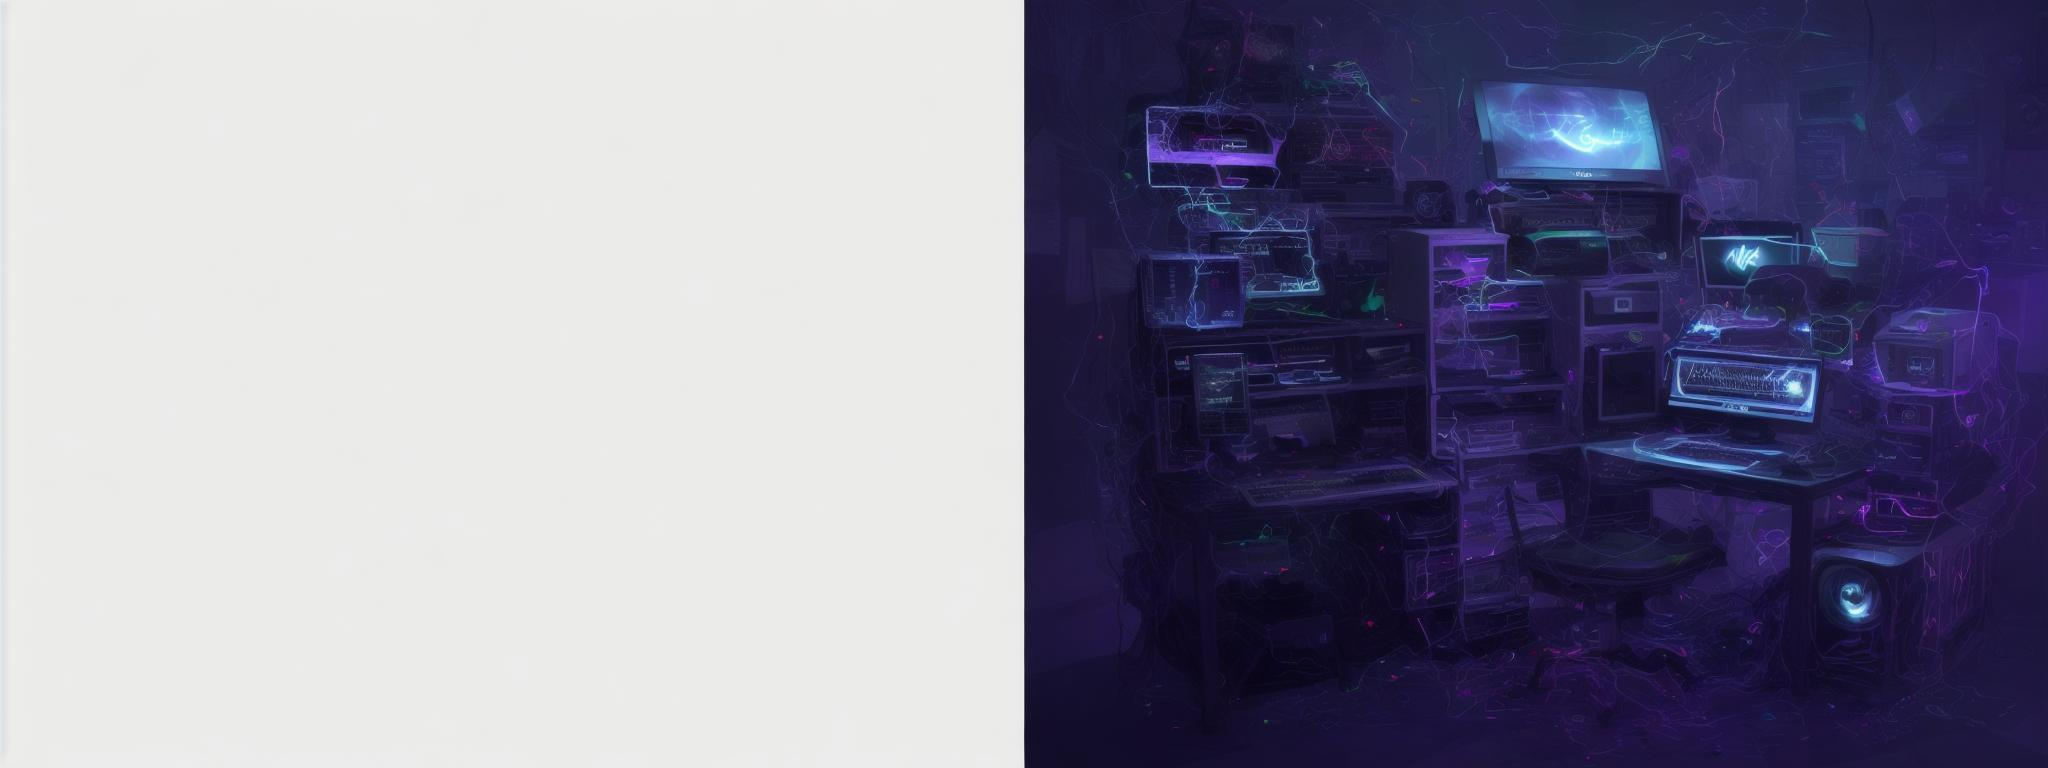
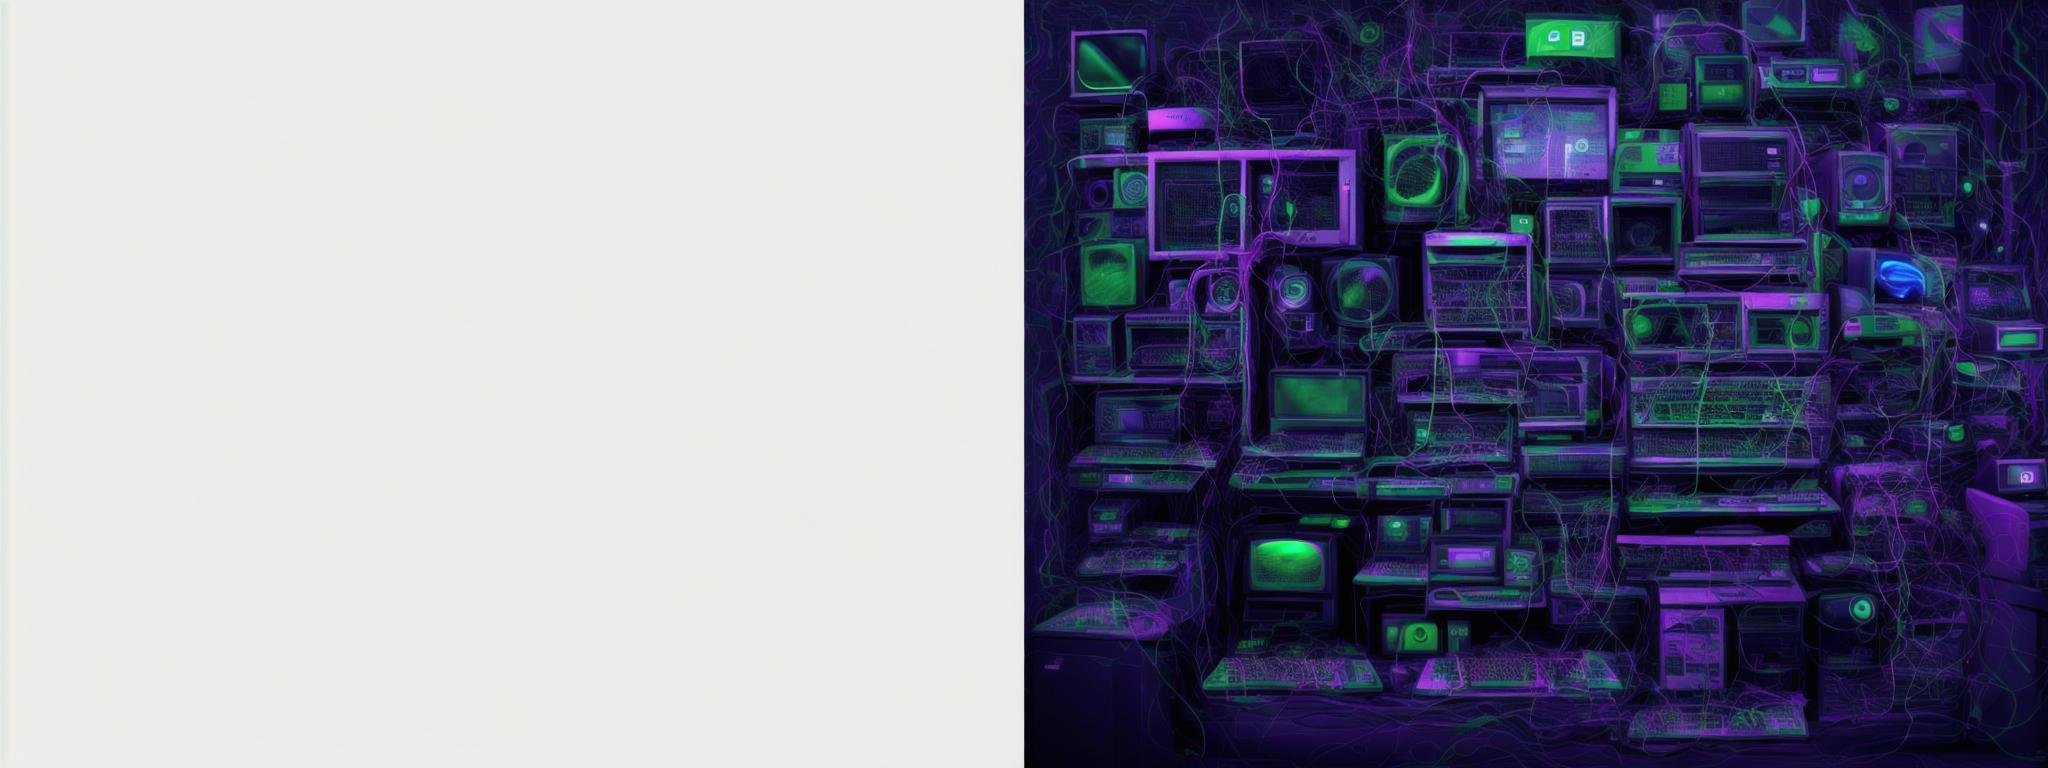
.

Changed region(s): [[0.5, 0.0, 1.0, 1.0]]

diff --git a/contact-us/index.html b/contact-us/index.html
@@ -143,7 +143,7 @@ opacity: 0.04 !important;
 }
 
 .qt-socialicon {
-	color: #4a00ff;
+	color: #39e510;
 }
 
 .firwl_member .firwl-post__header {
@@ -300,7 +300,7 @@ opacity: 0.04 !important;
 			.firwl-post__sticky::after, input[type="submit"], .firwl-menubar > li > a::before, .firwl-menubar > li > a::after, .firwl-authorbox::after,  
 			.firwl-p-catz::after, .firwl-caption__s::before,.firwl-caption__xs::before {
 				background: #00a2ff;
-				background: linear-gradient(45deg, #d91805 0%, #810b0b 100%);
+				background: linear-gradient(45deg, #071e03 0%, #0fe50d 100%);
 				filter: progid:DXImageTransform.Microsoft.gradient( startColorstr='#00a2ff', endColorstr='#5c20ef',GradientType=1 ); 
 				color: #fff; /* No customizer required, always white */
 			}

diff --git a/index.html b/index.html
@@ -124,7 +124,7 @@ opacity: 0.04 !important;
 }
 
 .qt-socialicon {
-	color: #4a00ff;
+	color: #39e510;
 }
 
 .firwl_member .firwl-post__header {
